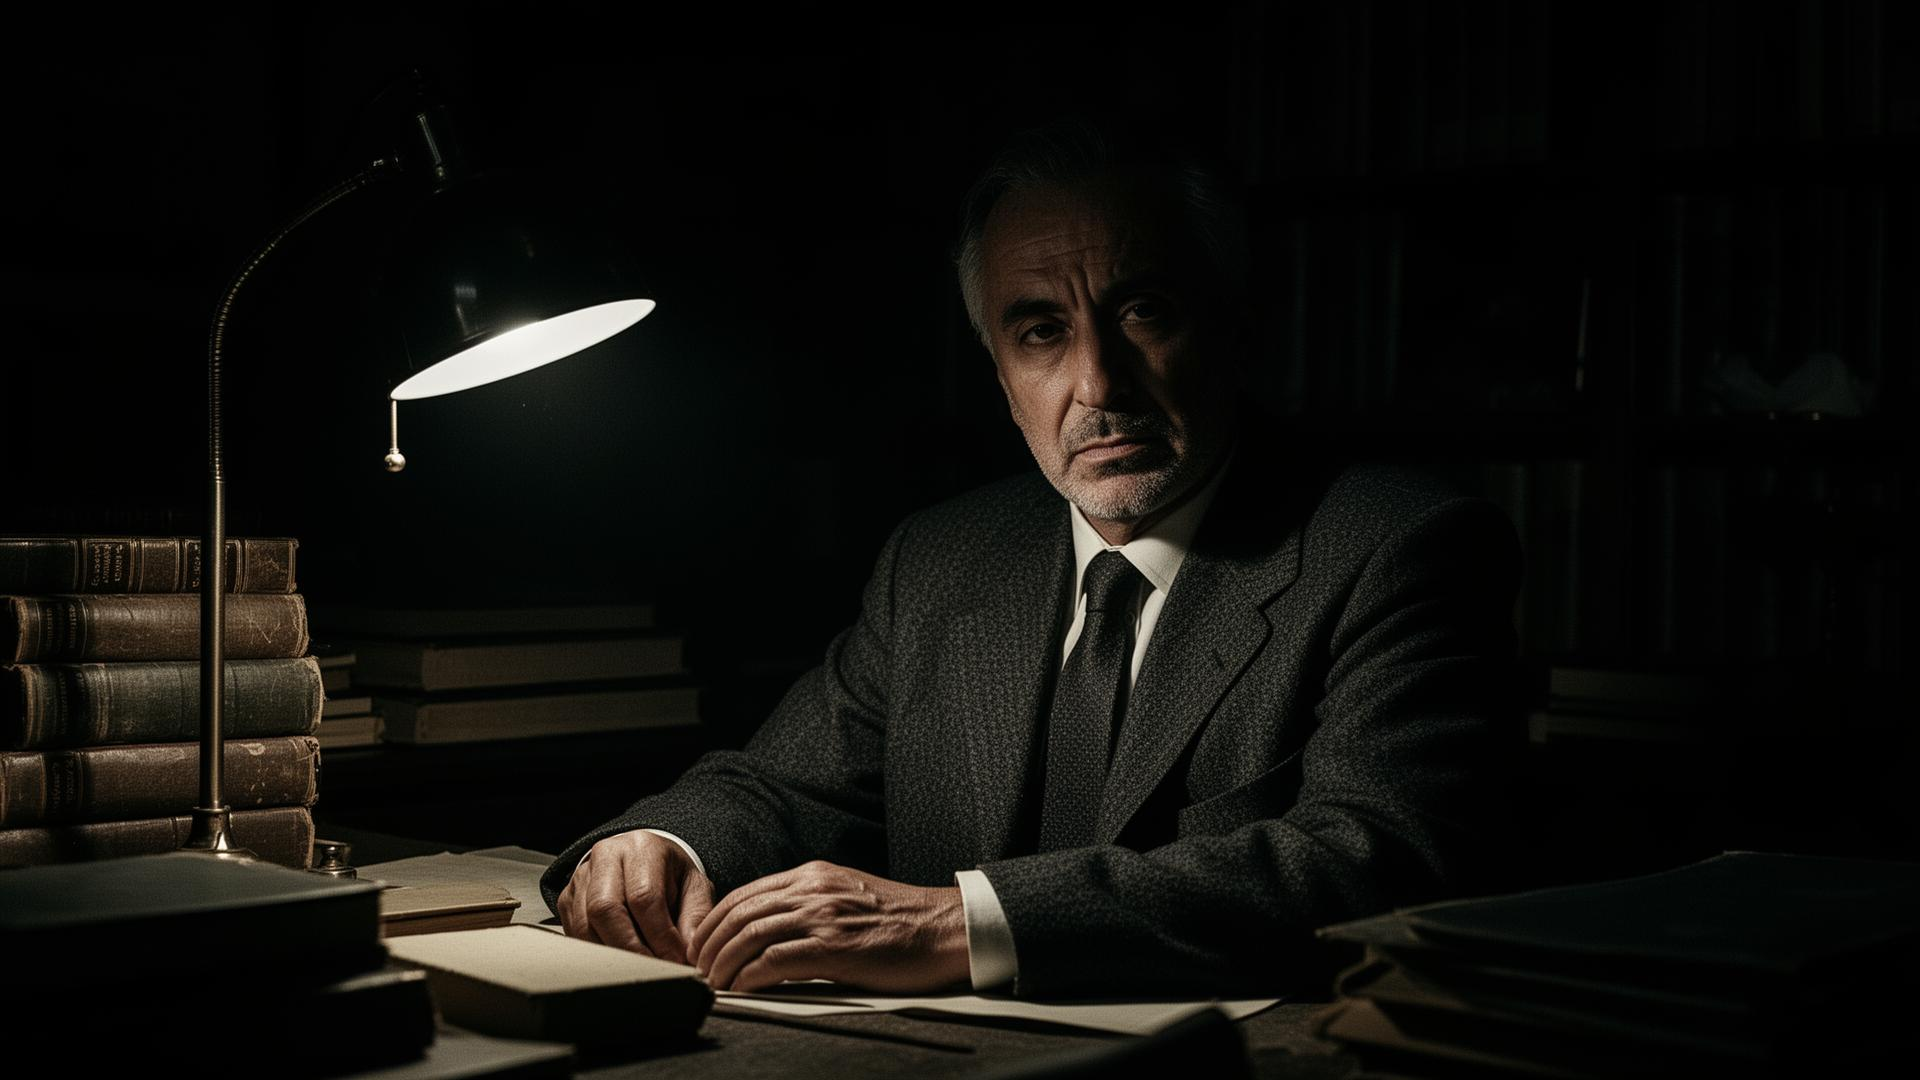
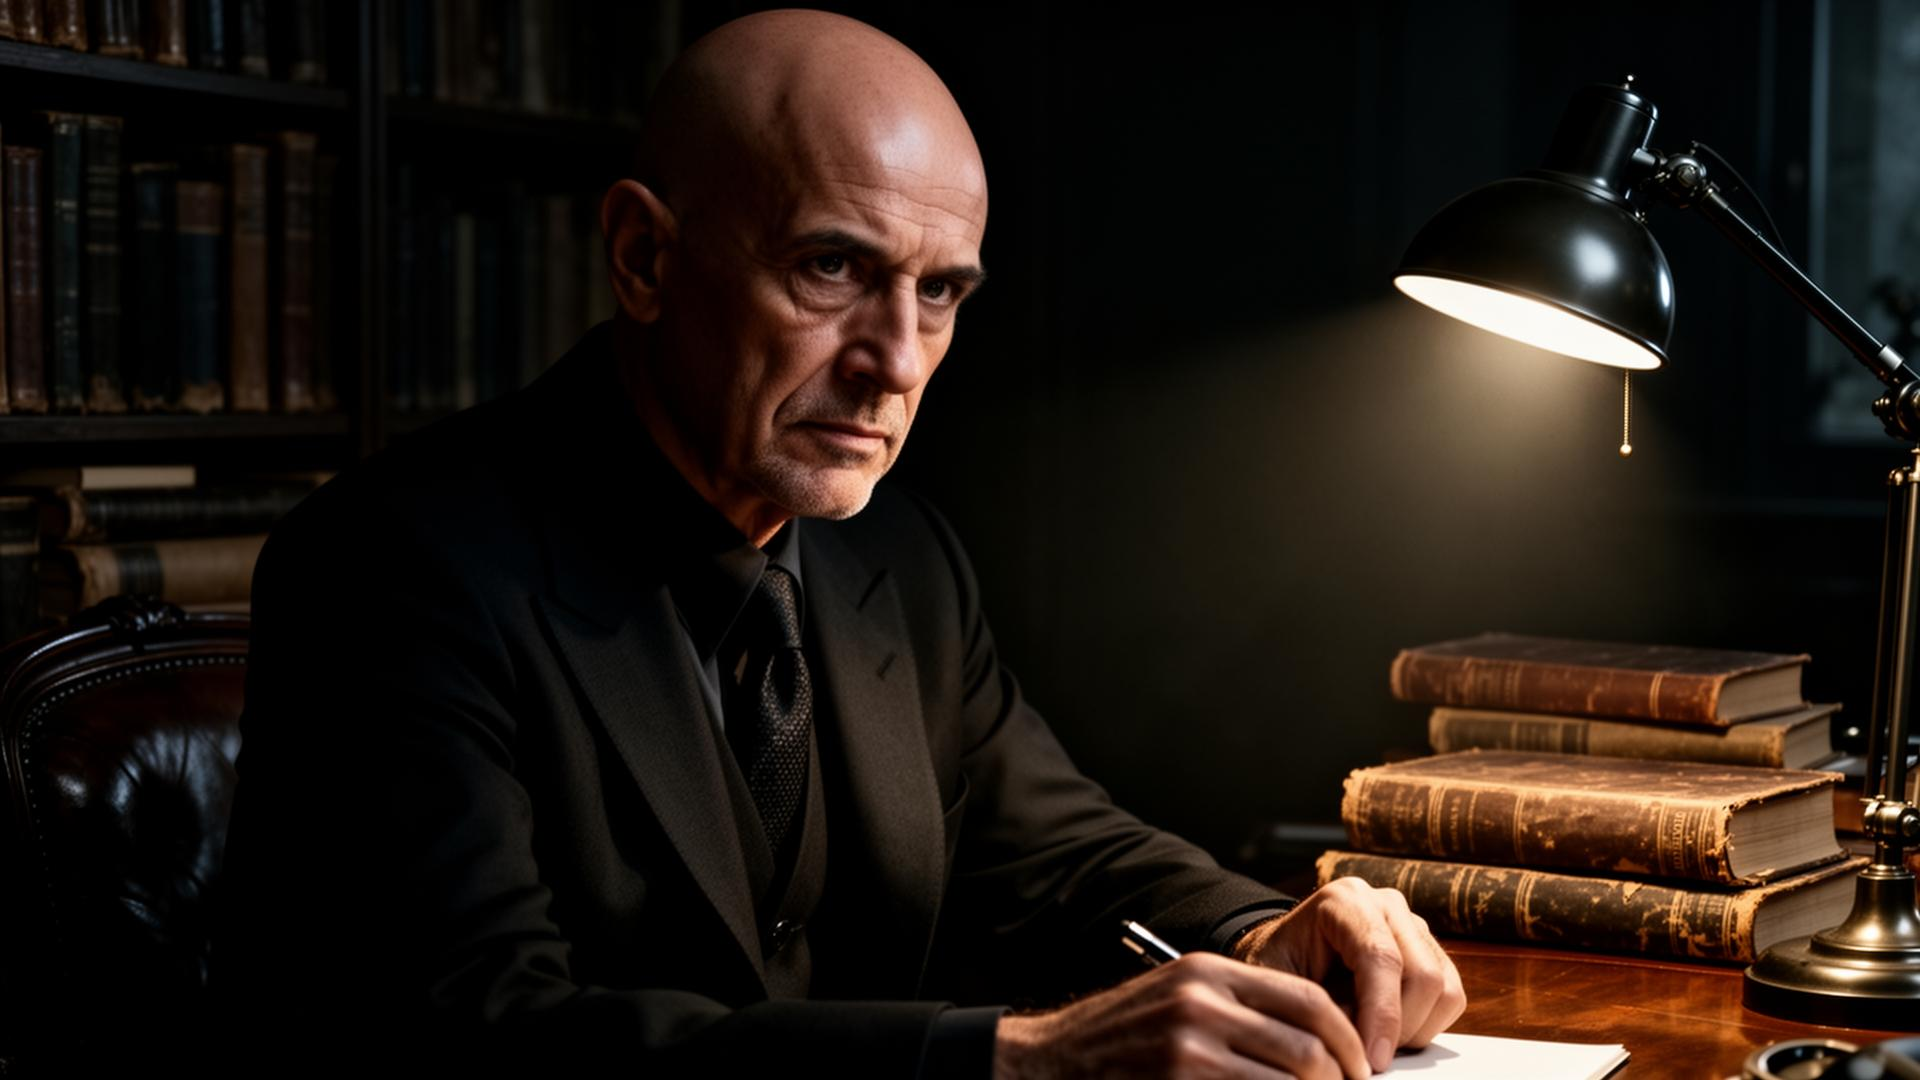
Changes

diff --git a/src/components/LatestBookSection.tsx b/src/components/LatestBookSection.tsx
@@ -1,55 +1,43 @@
-import bookCover1 from "@/assets/book-cover-1.jpg";
-import marcheLandscape from "@/assets/marche-landscape.jpg";
+import bookEmerge from "@/assets/book-emerge.jpg";
 
 const LatestBookSection = () => {
   return (
     <section id="focus-libro" className="relative overflow-hidden">
-      {/* Background landscape */}
+      {/* Full-bleed immersive background */}
       <img
-        src={marcheLandscape}
-        alt="Porto notturno nelle Marche"
-        className="absolute inset-0 w-full h-full object-cover opacity-30"
+        src={bookEmerge}
+        alt="Personaggio che emerge dal libro - L'Ombra del Porto"
+        className="absolute inset-0 w-full h-full object-cover"
         loading="lazy"
       />
-      <div className="absolute inset-0 bg-background/80" />
+      {/* Gradient overlays for readability */}
+      <div className="absolute inset-0 bg-gradient-to-r from-background/95 via-background/70 to-transparent" />
+      <div className="absolute inset-0 bg-gradient-to-t from-background via-transparent to-background/50" />
 
-      <div className="relative z-10 section-padding">
+      <div className="relative z-10 px-6 py-24 md:px-12 md:py-32 lg:px-24 lg:py-40">
         <div className="container-narrow">
-          <div className="grid grid-cols-1 lg:grid-cols-2 gap-12 lg:gap-20 items-center">
-            {/* Book cover */}
-            <div className="flex justify-center">
-              <img
-                src={bookCover1}
-                alt="L'Ombra del Porto"
-                className="w-64 md:w-72 rounded-sm shadow-2xl noir-glow"
-                loading="lazy"
-              />
-            </div>
-
-            {/* Text */}
-            <div className="space-y-6">
-              <p className="text-sm font-medium tracking-[0.3em] uppercase text-primary">
-                Ultimo thriller · 2024
-              </p>
-              <h2 className="text-3xl md:text-4xl font-serif font-bold text-foreground text-balance">
-                L'Ombra del Porto
-              </h2>
-              <blockquote className="border-l-2 border-primary pl-6 italic text-lg text-muted-foreground leading-relaxed font-serif">
-                "Il porto non dimentica mai. Le sue acque scure custodiscono i nomi
-                di chi non è più tornato — e di chi li ha fatti sparire."
-              </blockquote>
-              <p className="text-muted-foreground leading-relaxed">
-                Senigallia, 1978. Un corpo riemerge dalle acque del porto dopo trent'anni.
-                L'ispettore Morandi dovrà scavare nei segreti di tre famiglie
-                per scoprire che la verità più pericolosa è quella che nessuno vuole ascoltare.
-              </p>
-              <a
-                href="#"
-                className="inline-block px-8 py-3.5 bg-primary text-primary-foreground font-semibold text-sm tracking-widest uppercase rounded-sm hover:opacity-90 transition-all duration-300"
-              >
-                Acquista ora
-              </a>
-            </div>
+          <div className="max-w-lg space-y-6">
+            <p className="text-xs sm:text-sm font-medium tracking-[0.3em] uppercase text-primary animate-flicker">
+              Ultimo libro · 2024
+            </p>
+            <h2 className="text-3xl sm:text-4xl md:text-5xl font-serif font-bold text-foreground text-balance text-glow">
+              L'Ombra del Porto
+            </h2>
+            <blockquote className="border-l-2 border-primary pl-5 sm:pl-6 italic text-base sm:text-lg text-muted-foreground leading-relaxed font-serif">
+              "Il porto non dimentica mai. Le sue acque scure custodiscono i nomi
+              di chi non è più tornato — e di chi li ha fatti sparire."
+            </blockquote>
+            <p className="text-sm sm:text-base text-muted-foreground leading-relaxed">
+              Senigallia, 1978. Un corpo riemerge dalle acque del porto dopo trent'anni.
+              L'ispettore Morandi dovrà scavare nei segreti di tre famiglie
+              per scoprire che la verità più pericolosa è quella che nessuno vuole ascoltare.
+            </p>
+            <a
+              href="#"
+              className="inline-block px-6 sm:px-8 py-3 sm:py-3.5 bg-primary text-primary-foreground font-semibold text-xs sm:text-sm tracking-widest uppercase rounded-sm hover:opacity-90 transition-all duration-300 animate-pulse-glow"
+            >
+              Acquista ora
+            </a>
           </div>
         </div>
       </div>

diff --git a/src/components/HeroSection.tsx b/src/components/HeroSection.tsx
@@ -7,38 +7,38 @@ const HeroSection = () => {
       {/* Full background image */}
       <img
         src={authorHero}
-        alt="Marco Ferretti, scrittore thriller"
-        className="absolute inset-0 w-full h-full object-cover object-center"
+        alt="Lorenzo Livieri, scrittore thriller"
+        className="absolute inset-0 w-full h-full object-cover object-top"
         loading="eager"
       />
-      {/* Dark overlay */}
+      {/* Dark overlays */}
       <div className="absolute inset-0" style={{ background: "var(--noir-overlay)" }} />
       <div className="absolute inset-0" style={{ background: "var(--noir-overlay-top)" }} />
 
       {/* Content */}
-      <div className="relative z-10 section-padding pb-16 lg:pb-24 w-full">
+      <div className="relative z-10 w-full px-6 pb-12 pt-32 md:px-12 md:pb-20 lg:px-24 lg:pb-24">
         <div className="container-narrow">
-          <div className="grid grid-cols-1 lg:grid-cols-[1fr_auto] gap-12 items-end">
-            <div className="space-y-6 animate-fade-in-up">
-              <p className="text-sm font-medium tracking-[0.3em] uppercase text-primary animate-flicker">
+          <div className="grid grid-cols-1 lg:grid-cols-[1fr_auto] gap-8 lg:gap-12 items-end">
+            <div className="space-y-5 animate-fade-in-up">
+              <p className="text-xs sm:text-sm font-medium tracking-[0.3em] uppercase text-primary animate-flicker">
                 Thriller · Noir · Senigallia
               </p>
-              <h1 className="text-4xl md:text-5xl lg:text-7xl font-serif font-bold leading-[1.1] text-foreground text-balance text-glow">
+              <h1 className="text-3xl sm:text-4xl md:text-5xl lg:text-7xl font-serif font-bold leading-[1.1] text-foreground text-balance text-glow">
                 Ogni ombra nasconde una verità
               </h1>
-              <p className="text-lg text-muted-foreground max-w-lg leading-relaxed">
+              <p className="text-base sm:text-lg text-muted-foreground max-w-lg leading-relaxed">
                 Thriller ambientati nelle Marche. Dove il silenzio delle colline custodisce segreti
                 e le acque del porto cancellano le tracce.
               </p>
               <a
                 href="#focus-libro"
-                className="inline-block mt-4 px-8 py-3.5 bg-primary text-primary-foreground font-semibold text-sm tracking-widest uppercase rounded-sm hover:opacity-90 transition-all duration-300 animate-pulse-glow"
+                className="inline-block mt-2 px-6 sm:px-8 py-3 sm:py-3.5 bg-primary text-primary-foreground font-semibold text-xs sm:text-sm tracking-widest uppercase rounded-sm hover:opacity-90 transition-all duration-300 animate-pulse-glow"
               >
                 Scopri l'ultimo libro
               </a>
             </div>
 
-            {/* Book cover floating */}
+            {/* Book cover floating - hidden on small screens */}
             <div className="hidden lg:block animate-fade-in-up" style={{ animationDelay: "0.4s" }}>
               <img
                 src={bookCover1}

diff --git a/src/components/BooksSection.tsx b/src/components/BooksSection.tsx
@@ -29,13 +29,13 @@ const BooksSection = () => {
   return (
     <section id="libri" className="section-padding bg-card">
       <div className="container-narrow">
-        <div className="flex items-end justify-between mb-12">
+        <div className="flex items-end justify-between mb-10 sm:mb-12">
           <div>
-            <p className="text-sm font-medium tracking-[0.3em] uppercase text-primary mb-3">
-              Casi irrisolti
+            <p className="text-xs sm:text-sm font-medium tracking-[0.3em] uppercase text-primary mb-2 sm:mb-3">
+              Bibliografia
             </p>
-            <h2 className="text-3xl md:text-4xl font-serif font-bold text-foreground">
-              I miei thriller
+            <h2 className="text-2xl sm:text-3xl md:text-4xl font-serif font-bold text-foreground">
+              I miei libri
             </h2>
           </div>
           <div className="hidden md:flex gap-2">
@@ -58,15 +58,15 @@ const BooksSection = () => {
 
         <div
           ref={scrollRef}
-          className="flex gap-6 overflow-x-auto pb-4 snap-x snap-mandatory"
+          className="flex gap-4 sm:gap-6 overflow-x-auto pb-4 snap-x snap-mandatory"
           style={{ scrollbarWidth: "none", msOverflowStyle: "none" }}
         >
           {books.map((book) => (
             <div
               key={book.title}
-              className="flex-shrink-0 w-52 md:w-56 snap-start group cursor-pointer"
+              className="flex-shrink-0 w-40 sm:w-52 md:w-56 snap-start group cursor-pointer"
             >
-              <div className="overflow-hidden rounded-sm mb-4 noir-glow">
+              <div className="overflow-hidden rounded-sm mb-3 sm:mb-4 noir-glow">
                 <img
                   src={book.cover}
                   alt={book.title}
@@ -74,13 +74,13 @@ const BooksSection = () => {
                   loading="lazy"
                 />
               </div>
-              <h3 className="font-serif font-semibold text-foreground mb-1 group-hover:text-primary transition-colors">
+              <h3 className="font-serif text-sm sm:text-base font-semibold text-foreground mb-1 group-hover:text-primary transition-colors">
                 {book.title}
               </h3>
-              <p className="text-sm text-muted-foreground mb-3">{book.year}</p>
+              <p className="text-xs sm:text-sm text-muted-foreground mb-2 sm:mb-3">{book.year}</p>
               <a
                 href="#"
-                className="text-sm font-semibold tracking-wider uppercase text-primary hover:underline underline-offset-4"
+                className="text-xs sm:text-sm font-semibold tracking-wider uppercase text-primary hover:underline underline-offset-4"
               >
                 Acquista →
               </a>

diff --git a/src/components/ContactSection.tsx b/src/components/ContactSection.tsx
@@ -3,25 +3,25 @@ import { Mail, Instagram, Facebook } from "lucide-react";
 const ContactSection = () => {
   return (
     <section id="contatti" className="section-padding">
-      <div className="container-narrow text-center max-w-2xl">
-        <p className="text-sm font-medium tracking-[0.3em] uppercase text-primary mb-3">
-          Indagini aperte
+      <div className="container-narrow text-center max-w-2xl mx-auto px-4">
+        <p className="text-xs sm:text-sm font-medium tracking-[0.3em] uppercase text-primary mb-3">
+          Restiamo in contatto
         </p>
-        <h2 className="text-3xl md:text-4xl font-serif font-bold text-foreground mb-6">
+        <h2 className="text-2xl sm:text-3xl md:text-4xl font-serif font-bold text-foreground mb-4 sm:mb-6">
           Contatti
         </h2>
-        <p className="text-muted-foreground leading-relaxed mb-10">
+        <p className="text-sm sm:text-base text-muted-foreground leading-relaxed mb-8 sm:mb-10">
           Per collaborazioni, presentazioni, eventi letterari o semplicemente
           per condividere una teoria sul colpevole.
         </p>
 
-        <div className="flex flex-col sm:flex-row items-center justify-center gap-6">
+        <div className="flex flex-col items-center gap-6">
           <a
-            href="mailto:marco.ferretti@esempio.it"
-            className="flex items-center gap-3 px-6 py-3 border border-border rounded-sm text-foreground hover:border-primary hover:text-primary transition-colors duration-300"
+            href="mailto:lorenzo.livieri@esempio.it"
+            className="flex items-center gap-3 px-5 sm:px-6 py-3 border border-border rounded-sm text-foreground hover:border-primary hover:text-primary transition-colors duration-300 text-xs sm:text-sm"
           >
             <Mail size={18} />
-            <span className="text-sm font-medium">marco.ferretti@esempio.it</span>
+            <span className="font-medium">lorenzo.livieri@esempio.it</span>
           </a>
         </div>
 

diff --git a/src/components/AuthorSection.tsx b/src/components/AuthorSection.tsx
@@ -4,16 +4,16 @@ const AuthorSection = () => {
   return (
     <section id="storia" className="section-padding bg-card">
       <div className="container-narrow">
-        <div className="grid grid-cols-1 lg:grid-cols-2 gap-12 lg:gap-20 items-center">
+        <div className="grid grid-cols-1 lg:grid-cols-2 gap-10 lg:gap-20 items-center">
           {/* Text */}
-          <div className="space-y-6 order-2 lg:order-1">
-            <p className="text-sm font-medium tracking-[0.3em] uppercase text-primary">
+          <div className="space-y-5 sm:space-y-6 order-2 lg:order-1">
+            <p className="text-xs sm:text-sm font-medium tracking-[0.3em] uppercase text-primary">
               L'autore
             </p>
-            <h2 className="text-3xl md:text-4xl font-serif font-bold text-foreground">
+            <h2 className="text-2xl sm:text-3xl md:text-4xl font-serif font-bold text-foreground">
               La mia storia
             </h2>
-            <div className="space-y-4 text-muted-foreground leading-relaxed">
+            <div className="space-y-4 text-sm sm:text-base text-muted-foreground leading-relaxed">
               <p>
                 Sono cresciuto nei vicoli di Senigallia, dove ogni angolo nasconde un segreto
                 e ogni volto racconta una storia mai detta. È lì che ho imparato a osservare —
@@ -35,11 +35,11 @@ const AuthorSection = () => {
           </div>
 
           {/* Photo */}
-          <div className="order-1 lg:order-2">
+          <div className="order-1 lg:order-2 flex justify-center">
             <img
               src={authorPortrait}
-              alt="Marco Ferretti - Ritratto"
-              className="w-full max-w-md mx-auto rounded-sm shadow-2xl noir-glow object-cover aspect-[3/4]"
+              alt="Lorenzo Livieri - Ritratto"
+              className="w-full max-w-xs sm:max-w-sm md:max-w-md rounded-sm shadow-2xl noir-glow object-cover aspect-[3/4]"
               loading="lazy"
             />
           </div>

diff --git a/index.html b/index.html
@@ -1,24 +1,16 @@
 <!doctype html>
-<html lang="en">
+<html lang="it">
   <head>
     <meta charset="UTF-8" />
     <meta name="viewport" content="width=device-width, initial-scale=1.0" />
-    <!-- TODO: Set the document title to the name of your application -->
-    <title>Lovable App</title>
-    <meta name="description" content="Lovable Generated Project" />
-    <meta name="author" content="Lovable" />
-
-    <!-- TODO: Update og:title to match your application name -->
-    <meta property="og:title" content="Lovable App" />
-    <meta property="og:description" content="Lovable Generated Project" />
+    <title>Lorenzo Livieri — Scrittore Thriller | Senigallia, Marche</title>
+    <meta name="description" content="Lorenzo Livieri, scrittore thriller italiano di Senigallia. Noir e gialli ambientati nelle Marche." />
+    <meta name="author" content="Lorenzo Livieri" />
+    <meta property="og:title" content="Lorenzo Livieri — Scrittore Thriller" />
+    <meta property="og:description" content="Noir e gialli ambientati nelle Marche. Scopri i romanzi di Lorenzo Livieri." />
     <meta property="og:type" content="website" />
-    <meta property="og:image" content="https://lovable.dev/opengraph-image-p98pqg.png" />
-
-    <meta name="twitter:card" content="summary_large_image" />
-    <meta name="twitter:site" content="@Lovable" />
-    <meta name="twitter:image" content="https://lovable.dev/opengraph-image-p98pqg.png" />
+    <link rel="icon" type="image/x-icon" href="/favicon.ico" />
   </head>
-
   <body>
     <div id="root"></div>
     <script type="module" src="/src/main.tsx"></script>

diff --git a/src/components/Footer.tsx b/src/components/Footer.tsx
@@ -1,9 +1,9 @@
 const Footer = () => {
   return (
-    <footer className="border-t border-border py-8 px-6 lg:px-24">
-      <div className="container-narrow flex flex-col sm:flex-row items-center justify-between gap-4">
-        <p className="font-serif text-sm text-muted-foreground">
-          © 2024 <span className="text-primary">Marco Ferretti</span>. Tutti i diritti riservati.
+    <footer className="border-t border-border py-6 sm:py-8 px-6 lg:px-24">
+      <div className="container-narrow flex flex-col sm:flex-row items-center justify-between gap-3 sm:gap-4">
+        <p className="font-serif text-xs sm:text-sm text-muted-foreground">
+          © 2024 <span className="text-primary">Lorenzo Livieri</span>. Tutti i diritti riservati.
         </p>
         <p className="text-xs text-muted-foreground tracking-widest uppercase">
           Senigallia, Marche — Italia

diff --git a/src/components/Navbar.tsx b/src/components/Navbar.tsx
@@ -15,8 +15,8 @@ const Navbar = () => {
   return (
     <nav className="fixed top-0 left-0 right-0 z-50 bg-background/80 backdrop-blur-xl border-b border-border">
       <div className="container-narrow flex items-center justify-between h-16 px-6 lg:px-24">
-        <a href="#home" className="font-serif text-xl font-bold tracking-wider text-foreground">
-          <span className="text-primary">M</span>arco <span className="text-primary">F</span>erretti
+        <a href="#home" className="font-serif text-lg sm:text-xl font-bold tracking-wider text-foreground">
+          <span className="text-primary">L</span>orenzo <span className="text-primary">L</span>ivieri
         </a>
 
         <ul className="hidden md:flex items-center gap-8">
